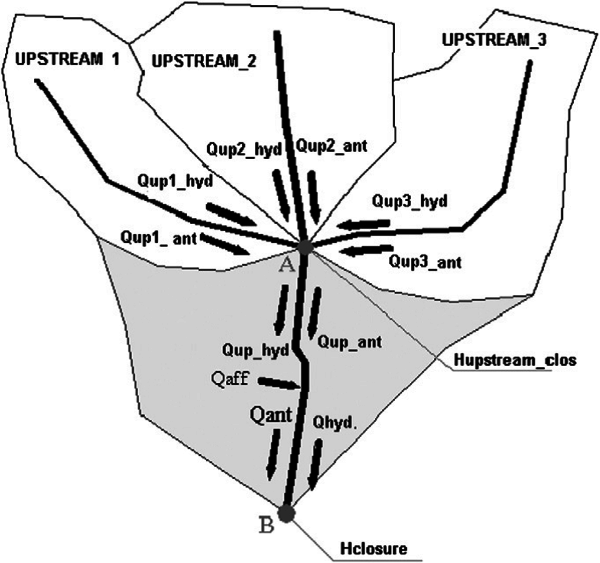
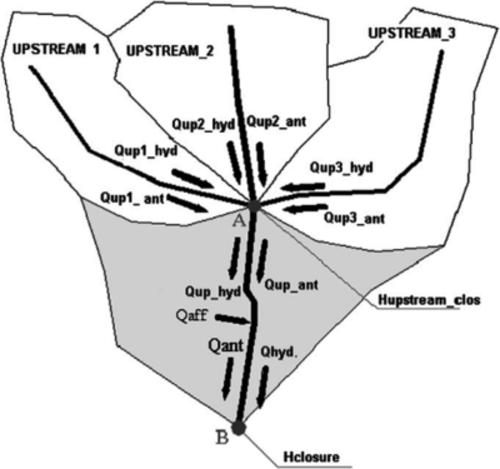
r.green:modify figures and manual
git-svn-id: https://svn.osgeo.org/grass/grass-addons@67814 15284696-431f-4ddb-bdfa-cd5b030d7da7

diff --git a/grass7/raster/r.green/r.green.hydro/r.green.hydro.theoretical/r.green.hydro.theoretical.html b/grass7/raster/r.green/r.green.hydro/r.green.hydro.theoretical/r.green.hydro.theoretical.html
@@ -86,7 +86,7 @@ r.green.hydro.theoretical elevation=elevation discharge=naturaldischarge rivers=
  
 In the map below, you can see the output vector map with the basin potential.<br><br>
 <center><br>
-<img src="r_green_hydro_theoretical_output.png" alt="output park">
+<img src="r_green_hydro_theoretical_output.png" alt="output park"><br><br>
 output vector map with basin potential
 </center><br><br>
 
